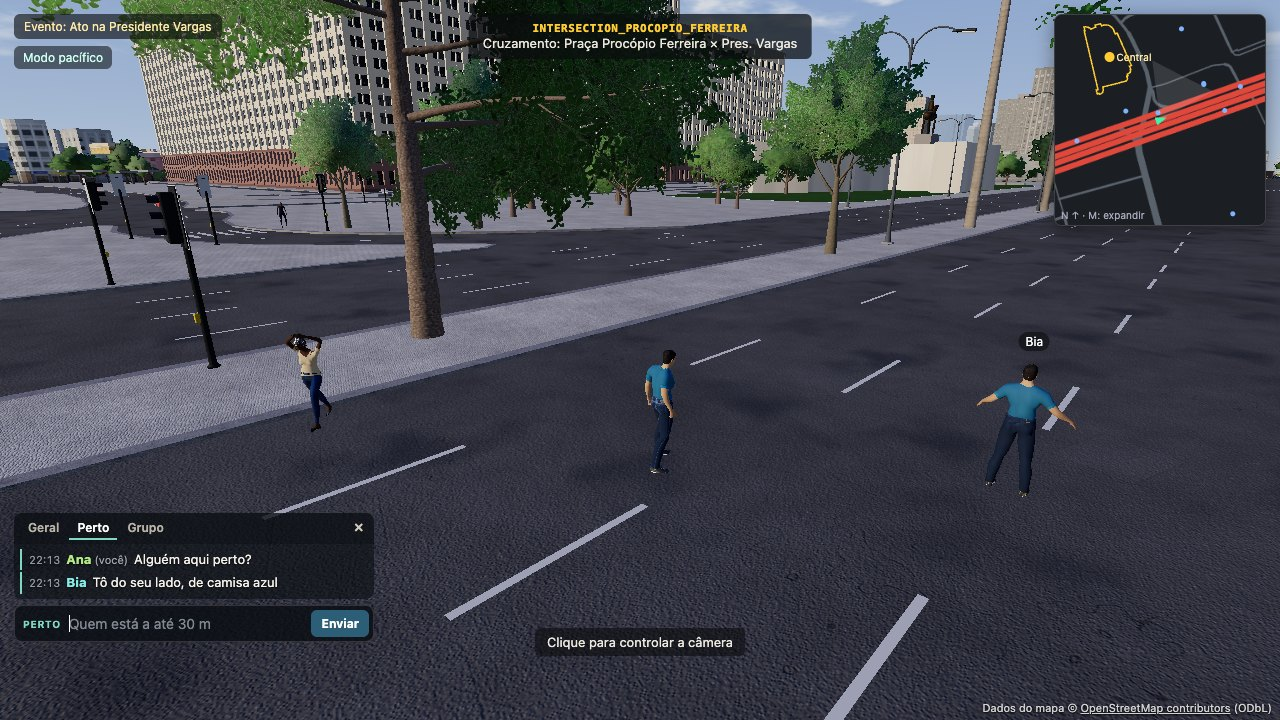
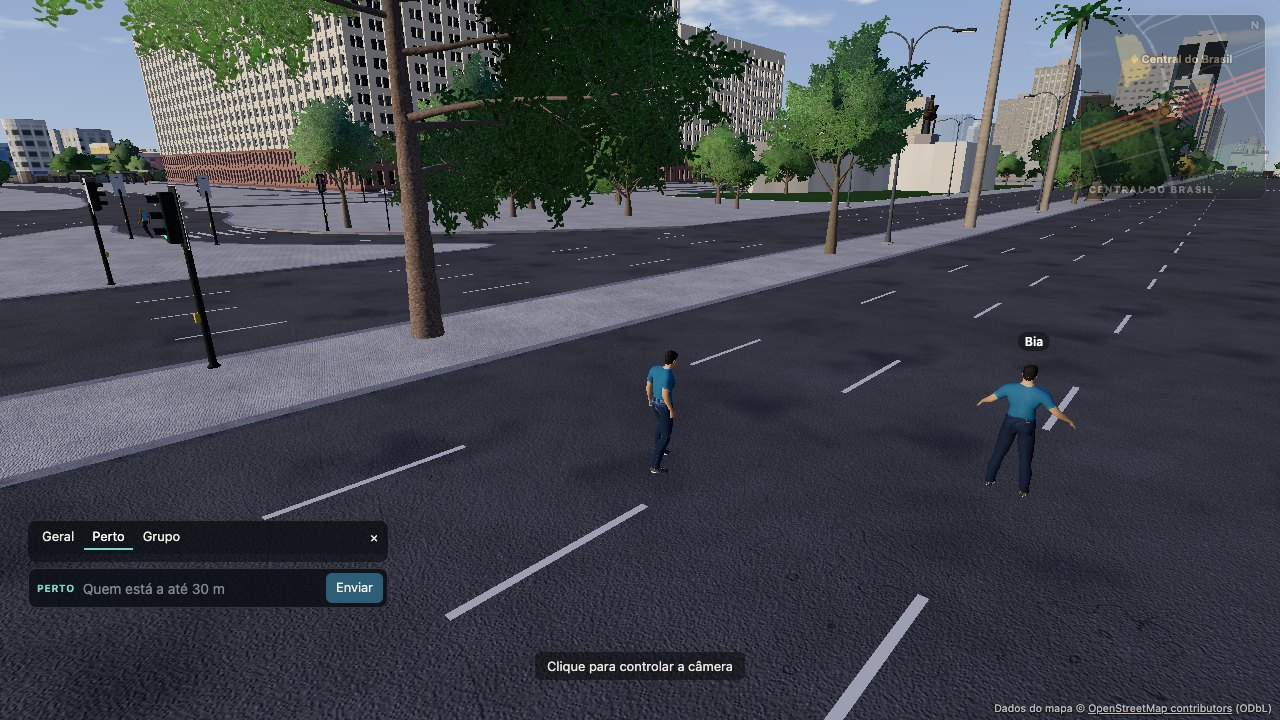
integrate: chat panel mounted in the HUD shell slot; chat speakers get nickname-label priority

diff --git a/src/core/Game.ts b/src/core/Game.ts
@@ -35,7 +35,7 @@ const DEFAULT_PLAYER_APPEARANCE_LOCAL = DEFAULT_APPS.homem;
 import { ThirdPersonCamera } from '../camera/ThirdPersonCamera';
 import { InputManager } from '../input/InputManager';
 import { TouchControls } from '../ui/TouchControls';
-import { mountChat, type ChatPanel } from '../ui/ChatPanel';
+import { ChatPanel } from '../ui/ChatPanel';
 import { DebugPanel } from '../debug/DebugPanel';
 import { HudShell } from '../ui/hud/HudShell';
 import { loadZones } from '../world/zoneTracker';
@@ -639,7 +639,12 @@ export class Game {
     this.net.crowd = this.peds.crowd;
     this.graffiti.attachNet(this.net);
     // chat (src/ui/ChatPanel): painel + botão CHAT no toque; digitar não move o jogador
-    this.chat = mountChat(this.hud, this.net, { isTouch: this.input.isTouch, input: this.input, onToggle: (open) => { if (open) document.exitPointerLock?.(); } });
+    // chat (agente C) no espaço do HUD (agente E): o botão CHAT do toque é o do HUD (chama toggle())
+    const chat = (this.chat = new ChatPanel({ isTouch: false, input: this.input, onToggle: (open) => { if (open) document.exitPointerLock?.(); } }));
+    chat.attach(this.net);
+    this.hudShell.mountChat(chat);
+    // quem fala ganha prioridade de nome acima da cabeça por alguns segundos (LOD de nomes)
+    this.net.on('chat', (m: { nid: number }) => { const id = this.net?.idByNid(m.nid); if (id) this.net!.markSpeaking(id); });
     this.scene.add(this.net.group);
     (window as any).__pvRemotes = () => this.net?.remotesInfo();
     this.net.onSpawn = (sp) => {

diff --git a/src/net/NetworkClient.ts b/src/net/NetworkClient.ts
@@ -528,6 +528,13 @@ export class NetworkClient {
   labelStats = { shown: 0, candidates: 0, decisions: 0, decideMs: 0, transforms: 0 };
 
   /** o chat (agente C) avisa quem falou: o rótulo ganha prioridade/aparece até 50 m por `ms` */
+  /** id da entidade remota pelo id curto (nid) — mensagens de chat trazem só o nid */
+  idByNid(nid: number): string | null {
+    if (!nid) return null;
+    for (const r of this.remotes.values()) if (r.nid === nid) return r.id;
+    return null;
+  }
+
   markSpeaking(entityId: string, ms = 6000) {
     const r = this.remotes.get(entityId);
     if (!r) return;
